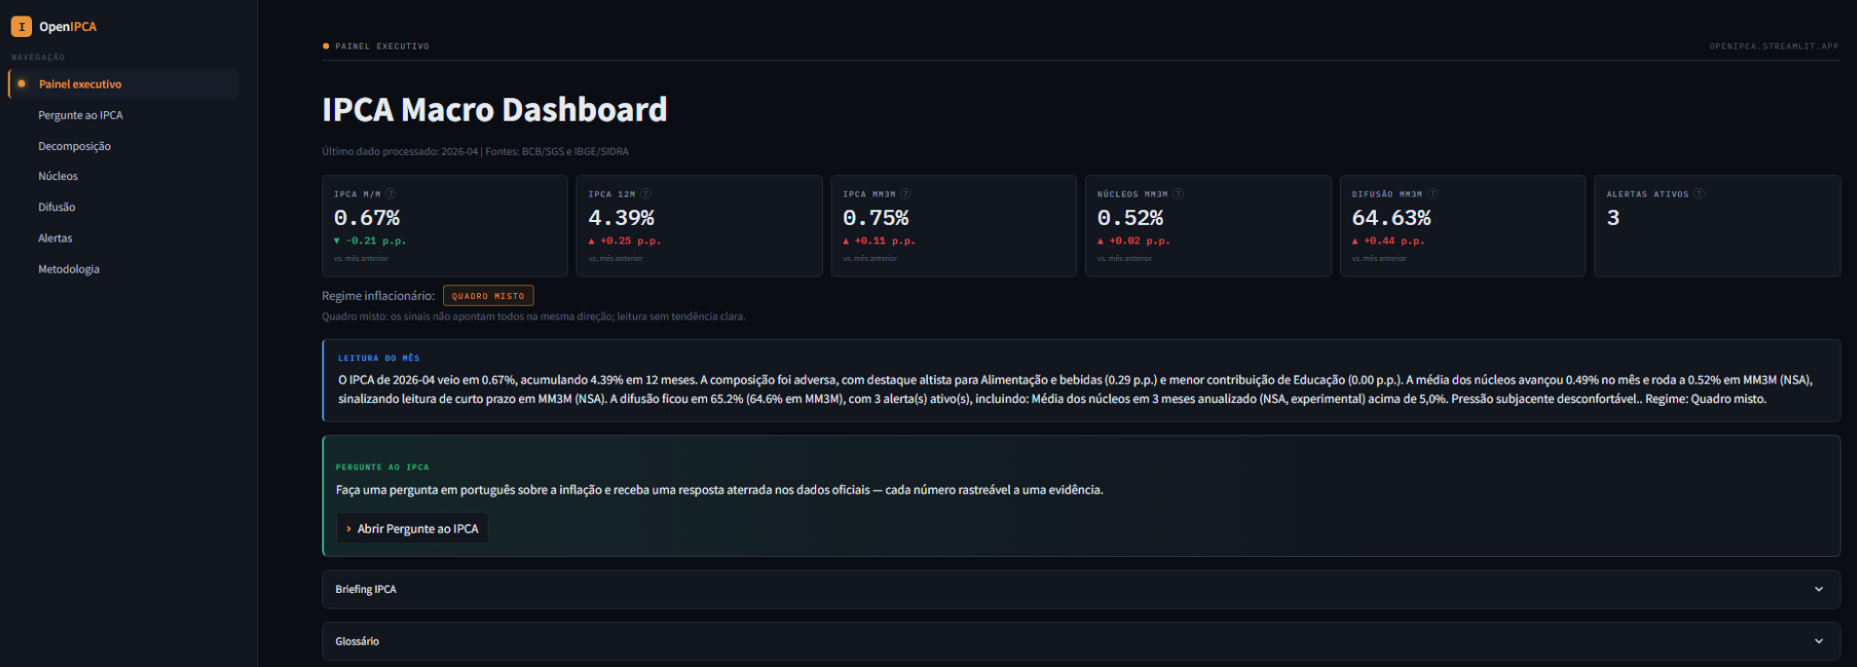
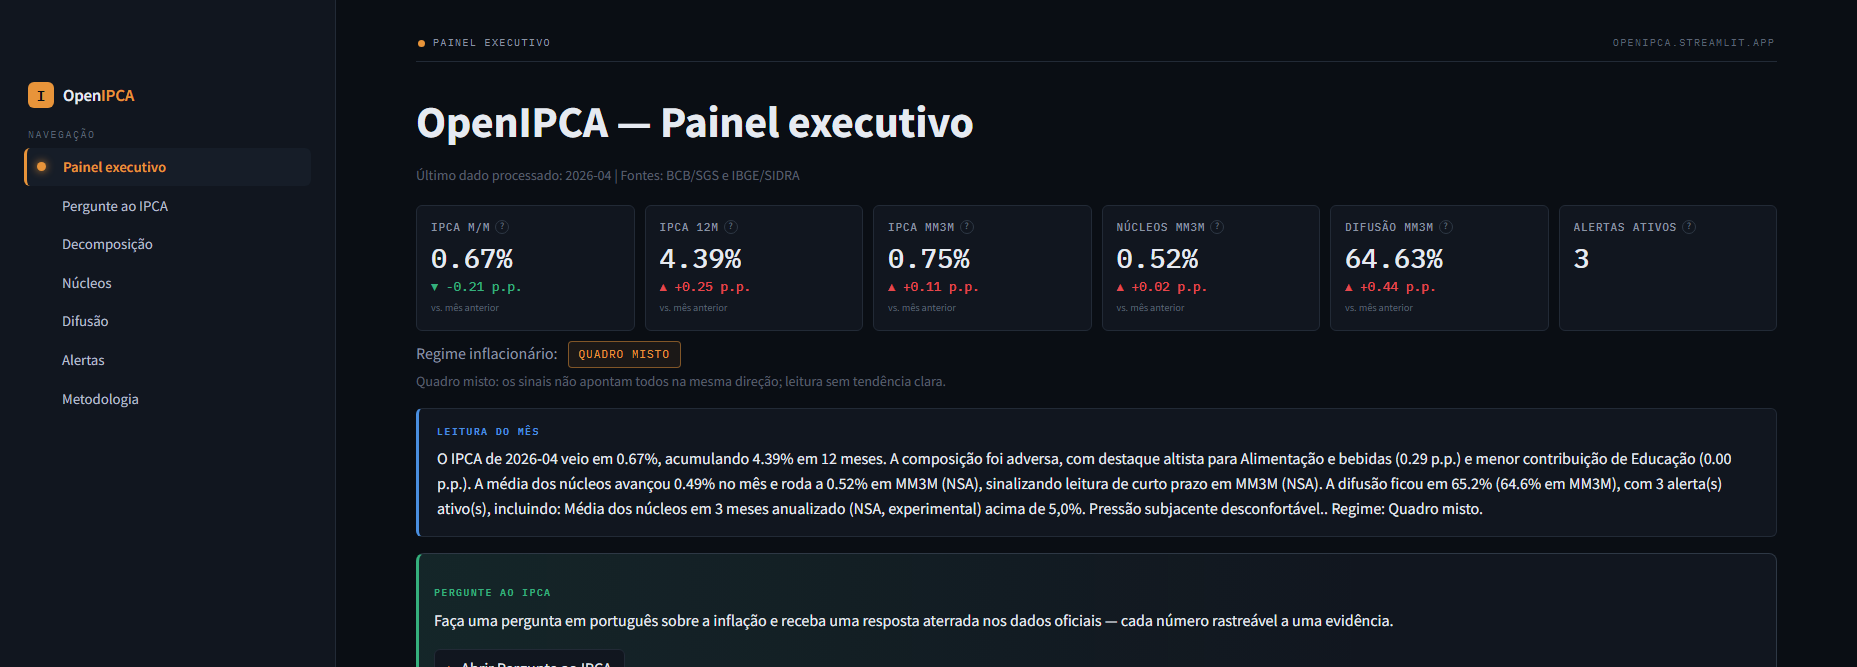
docs(readme): align AI claims and hero branding

diff --git a/README.md b/README.md
@@ -101,16 +101,17 @@ with your own key for unrestricted live Q&A.
 
 ### How the AI works
 
-1. **The AI orchestrates deterministic tools** — it calls typed functions
+1. **The AI sees deterministic tool outputs** — OpenIPCA first runs typed functions
    (`get_headline`, `get_contributions`, `get_diffusion`, …) over the processed official
-   data; it never receives free-form text to paraphrase and never computes a number itself.
+   data and passes only that evidence table to the provider. The model does not compute
+   the source numbers itself.
 2. **Every claim traces to an evidence id** — each tool returns values wrapped in an
    evidence table; a claim that doesn't cite an existing `evidence_id` is rejected.
 3. **Guardrails fail closed** — ungrounded numbers, monetary-policy forecasts and
-   prompt-injection are blocked in code; on any failure the app degrades to the
-   deterministic brief instead of guessing.
-4. **Public answers are audited replays** — the monthly brief and the curated Q&A answers
-   are generated once, validated, committed with model/prompt/evidence hashes
+   prompt-injection are blocked in code; on any failure the app degrades to a
+   deterministic brief or an honest Q&A fallback instead of guessing.
+4. **Public replay artifacts are audited** — the monthly brief and curated fallback Q&A
+   answers are generated once, validated, committed with model/prompt/evidence hashes
    ([reports/latest/](reports/latest/)) and refreshed in lockstep with the data.
 
 Key handling and deployment details: [DEPLOY.md](DEPLOY.md).